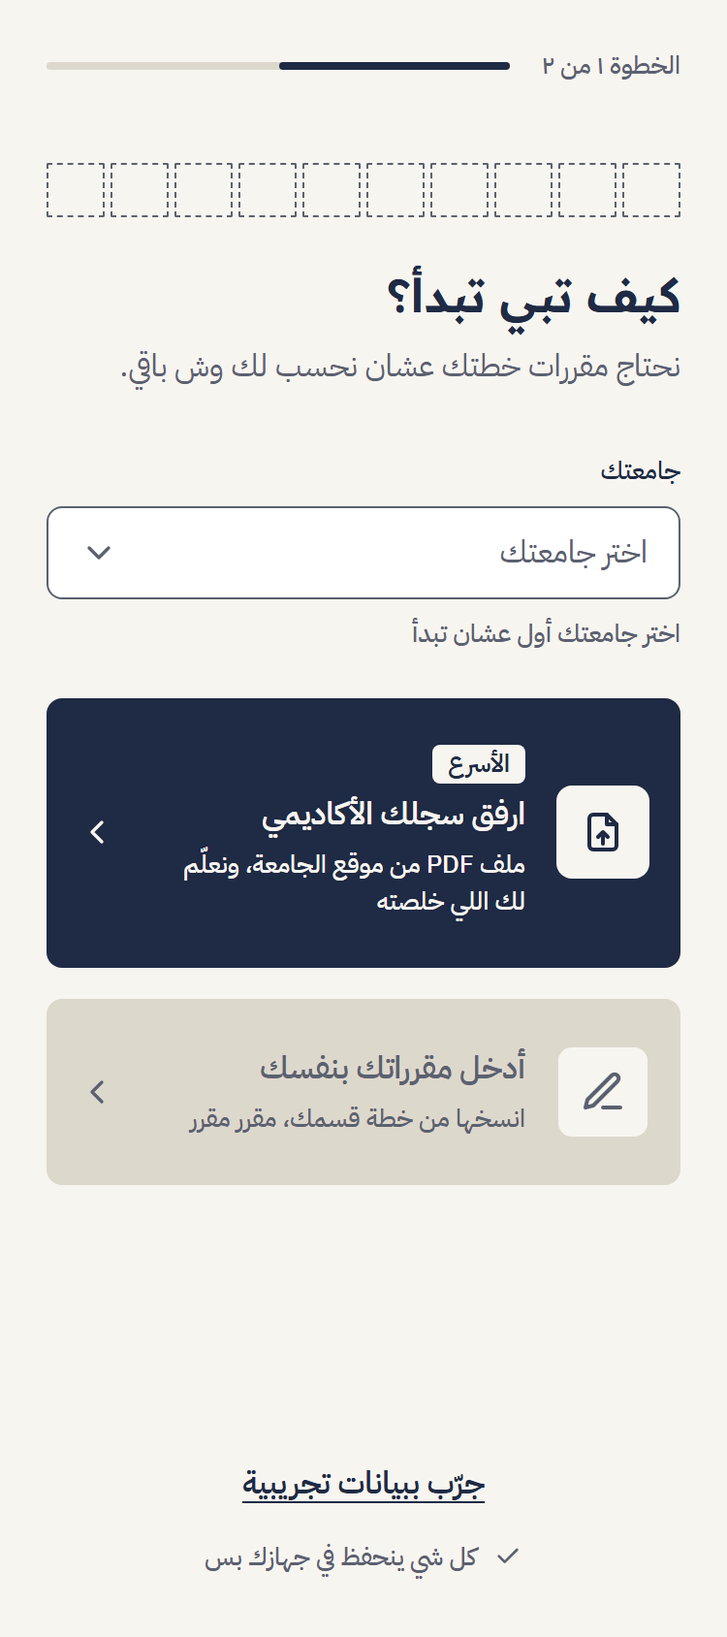
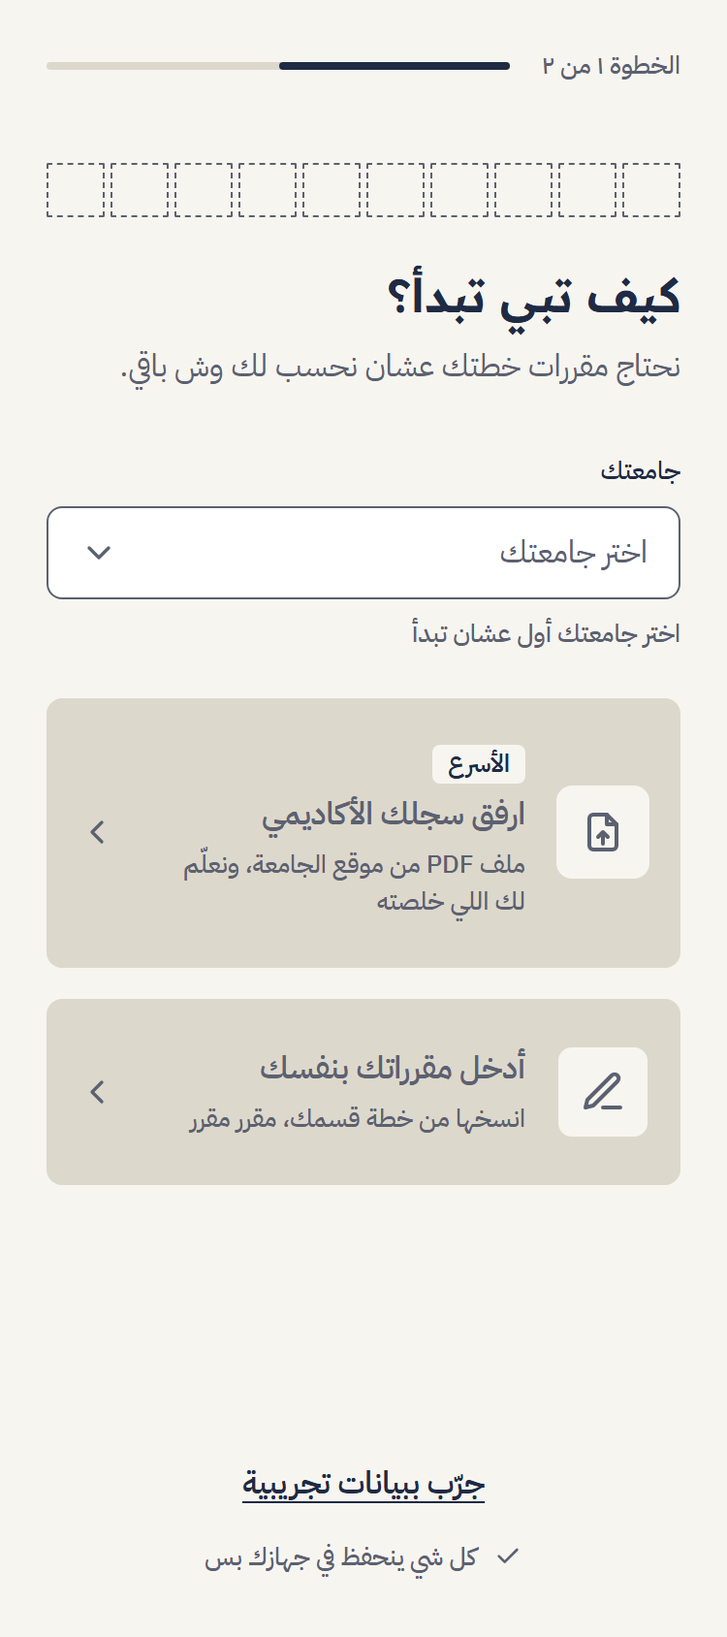
Transcript: empty plan adds courses directly; upload needs a university
- Empty plan: every passed course goes in at once as completed (source: transcript),
  no partial state; the list shows «أضفنا {n} مقرر خلصتها من سجلك…» and
  «+ أضف مقرر» becomes the primary next step (HANDOFF rules 17a-17b)
- Screen 3: plan made only of completed transcript courses says
  «أضف المقررات اللي باقية عليك عشان نحسب لك» with a button to screen 1,
  never «خلصت خطتك كلها»
- Partial state kept only when the plan already had courses
- Upload card disabled until a university is chosen (rule 16d)
- Checks cover the new states and the plan-had-courses cases; screenshots updated

Changed region(s): [[0.0613, 0.4005, 0.9507, 0.6161], [0.552, 0.154, 0.5827, 0.1848]]

diff --git a/web/scripts/checks/transcript-ui.js b/web/scripts/checks/transcript-ui.js
@@ -2,7 +2,9 @@
 // Run from the repo root with the dev server running; pick the file with ?fixture=:
 //   SHOT_LOG=1 SHOT_JS="$(cat web/scripts/checks/transcript-ui.js)" node web/scripts/shot.mjs "http://localhost:5173/?fixture=transcript-ar-en.pdf#/input" /tmp/tr 390 844 0
 // fixture: transcript-ar-en.pdf | not-transcript.pdf | scan.pdf | not-a-pdf.txt
-// Add &stop=card to stop at the card (for screenshots) instead of finishing the import.
+// Add &stop=card to stop at the card (for screenshots) instead of going on to screen 3.
+// Add &plan=sample to load the sample plan first (the plan already has courses: done / partial states;
+// with ?upload=partial the dev-only 3 extra courses make the partial card).
 const waitFor = async (test, what, ms = 20000) => {
   for (const end = Date.now() + ms; Date.now() < end; await new Promise((r) => setTimeout(r, 100))) {
     const v = test(); if (v) return v;
@@ -16,8 +18,20 @@ const params = new URLSearchParams(location.search);
 const name = params.get('fixture');
 const pdfLoaded = () => performance.getEntriesByType('resource').some((e) => !e.name.includes('/fixtures/') && /pdfjs-dist|pdf\.worker|\/pdf-\w+\.js/.test(e.name));
 
-await waitFor(() => [...document.querySelectorAll('button')].find((b) => b.textContent.includes('ارفق سجلك')), 'start screen with upload card');
+const uploadCard = await waitFor(() => [...document.querySelectorAll('button')].find((b) => b.textContent.includes('ارفق سجلك')), 'start screen with upload card');
 check(!pdfLoaded(), 'pdf.js not downloaded before a file is picked');
+// Decision 34 + rule 16d: no university yet, so the upload card is disabled like the manual card.
+check(uploadCard.disabled && uploadCard.getAttribute('aria-describedby') === 'university-hint', 'upload card disabled until a university is chosen');
+const select = document.querySelector('select');
+Object.getOwnPropertyDescriptor(HTMLSelectElement.prototype, 'value').set.call(select, select.options[1].value);
+select.dispatchEvent(new Event('change', { bubbles: true }));
+await waitFor(() => !uploadCard.disabled, 'upload card enabled after choosing a university');
+check(true, 'upload card enabled after choosing a university');
+const withSample = params.get('plan') === 'sample';
+if (withSample) {
+  [...document.querySelectorAll('button')].find((b) => b.textContent.includes('جرّب ببيانات')).click();
+  await waitFor(() => document.querySelector('.list-courses li'), 'sample list');
+}
 
 const blob = await (await fetch(`/scripts/fixtures/${name}`)).blob();
 const file = new File([blob], name, { type: name.endsWith('.pdf') ? 'application/pdf' : 'text/plain' });
@@ -28,27 +42,42 @@ dt.items.add(file);
 input.files = dt.files;
 input.dispatchEvent(new Event('change', { bubbles: true }));
 const t0 = performance.now();
-const card = await waitFor(() => document.querySelector('.upload--failed, .upload--done'), 'card finished');
+const card = await waitFor(() => document.querySelector('.upload--failed, .upload--done, .upload-line'), 'card finished');
 log.push(`INFO read in ${Math.round(performance.now() - t0)} ms; pdf.js downloaded: ${pdfLoaded()}`);
 log.push('INFO card: ' + plain(card.innerText).replace(/\n/g, ' / '));
 
-if (name === 'transcript-ar-en.pdf') {
-  const codes = [...card.querySelectorAll('.course-row__code')].map((e) => plain(e.textContent));
-  check(plain(card.querySelector('.upload__title').textContent) === 'لقينا ٢٨ مقرر خلصتها', 'title «لقينا ٢٨ مقرر خلصتها»');
-  check(codes.length === 28, `28 rows listed (got ${codes.length})`);
-  check(!codes.includes('CS 210') && !codes.includes('CS 250'), 'CS 210 (F) and CS 250 (W) not listed');
+const saved = () => JSON.parse(localStorage.getItem('arshadni') ?? 'null')?.studyPlan?.courses ?? [];
+if (name === 'transcript-ar-en.pdf' && !withSample) {
+  // Empty plan (rule 17a): no partial card; all passed courses go in, completed, and the list asks for the rest.
+  check(!document.querySelector('.upload--done'), 'no partial card on an empty plan');
+  check(plain(card.textContent) === 'أضفنا ٢٨ مقرر خلصتها من سجلك. الحين أضف المقررات اللي باقية عليك من خطة قسمك', 'message: ' + plain(card.textContent));
+  const footer = [...document.querySelectorAll('.footer button, footer button')];
+  check(footer[0]?.classList.contains('btn-primary') && plain(footer[0].textContent) === 'أضف مقرر', '«+ أضف مقرر» is the primary (next) step');
+  const s28 = saved();
+  check(s28.length === 28 && s28.every((c) => c.completed && c.source === 'transcript'), `saved: 28 courses, all completed, from the transcript (got ${s28.length})`);
+  check(!s28.some((c) => ['CS 210', 'CS 250'].includes(c.code)), 'no CS 210 (F) / CS 250 (W)');
   if (params.get('stop') !== 'card') {
-    [...card.querySelectorAll('button')].find((b) => b.textContent.includes('أضف'))?.click();
-    await waitFor(() => document.querySelector('.upload-line'), '«سجلك مرفق» line');
-    log.push('INFO line: ' + plain(document.querySelector('.upload-line').innerText));
-    location.hash = '#/done';
-    await waitFor(() => document.querySelector('input[type=checkbox]'), 'screen 2');
-    const boxes = [...document.querySelectorAll('input[type=checkbox]')];
-    const saved = JSON.parse(localStorage.getItem('arshadni') ?? 'null')?.studyPlan?.courses ?? [];
-    check(saved.length === 28 && saved.every((c) => c.completed), `saved plan: 28 courses, all completed (got ${saved.length}, ${saved.filter((c) => c.completed).length} completed)`);
-    check(!saved.some((c) => ['CS 210', 'CS 250'].includes(c.code)), 'saved plan has no CS 210 / CS 250');
-    log.push(`INFO screen 2: ${boxes.filter((b) => b.checked).length} of ${boxes.length} visible boxes ticked`);
+    location.hash = '#/remaining';
+    await waitFor(() => document.querySelector('.remaining-message'), 'screen 3');
+    const h = plain(document.querySelector('.remaining-message h2').textContent);
+    check(h === 'أضف المقررات اللي باقية عليك عشان نحسب لك', 'screen 3: ' + h);
+    check(!plain(document.body.textContent).includes('خلصت خطتك كلها'), 'screen 3 does not say «خلصت خطتك كلها»');
+    const btn = document.querySelector('.btn-primary');
+    log.push('INFO screen 3 button: ' + plain(btn.textContent));
+    btn.click();
+    await waitFor(() => location.hash === '#/input', 'back on screen 1');
+    check(true, 'button goes to screen 1');
   }
+} else if (name === 'transcript-ar-en.pdf') {
+  // The plan already had courses (the sample): matched courses get ticked; partial only if some are not in the plan.
+  const partial = new URLSearchParams(location.search).get('upload') === 'partial';
+  if (partial) {
+    check(card.classList.contains('upload--done') && card.querySelectorAll('.course-row').length === 3, 'partial card with the 3 courses not in the plan');
+  } else {
+    check(card.classList.contains('upload-line') && plain(card.textContent).includes('لقينا ٢٨ مقرر خلصتها'), 'all in the plan: «سجلك مرفق، لقينا ٢٨ مقرر خلصتها» line');
+  }
+  const s42 = saved();
+  check(s42.length === 42 && !s42.some((c) => c.source), `plan unchanged: 42 courses, none marked from the transcript (got ${s42.length})`);
 } else {
   const want = {
     'not-transcript.pdf': 'هذا الملف ما يبان إنه سجل أكاديمي. نزّل السجل من بوابة جامعتك',

diff --git a/web/src/features/input/InputScreen.jsx b/web/src/features/input/InputScreen.jsx
@@ -21,13 +21,16 @@ import { FEATURE_TRANSCRIPT } from '../../lib/features.js';
 import { devState, devUpload } from '../../lib/devState.js';
 import { t, tn } from '../../lib/strings.js';
 import { OTHER_UNIVERSITY, UNIVERSITIES } from '../../lib/universities.js';
-import UploadCard, { UploadSummary } from './UploadCard.jsx';
+import UploadCard, { UploadAdded, UploadSummary } from './UploadCard.jsx';
 import AddCourseSheet from './AddCourseSheet.jsx';
 import './input.css';
 
 const SEARCH_THRESHOLD = 20; // decision 7 (HANDOFF rule 12)
 const TOAST_MS = 5000;
 const GHOST_TICKS = 10;
+
+// A course read from the transcript: completed, and marked so screen 3 knows where it came from (rule 17b).
+const fromTranscript = (c) => ({ ...makeCourse(c), completed: true, source: 'transcript' });
 
 export default function InputScreen() {
   const {
@@ -97,7 +100,9 @@ export default function InputScreen() {
     loadSample();
   }
 
+  // The university comes first for both ways in (decision 34): no file picker without one.
   function chooseFile() {
+    if (!university) return;
     fileRef.current?.click();
   }
 
@@ -106,6 +111,15 @@ export default function InputScreen() {
     const result = await readTranscript(file, courses, import.meta.env.DEV ? devUpload() : null);
     if (result.status === 'failed') {
       setUpload({ status: 'failed', fileName: file.name, result: null, reason: result.reason });
+      return;
+    }
+    // Empty plan (rule 17a): nothing to match against, so every passed course goes straight in,
+    // completed, and the list screen asks for the courses that are still left. No partial state.
+    if (courses.length === 0) {
+      // With nothing in the plan, every found course is "unmatched" and carries its name.
+      addCourses(result.unmatchedCourses.map(fromTranscript));
+      setTranscript({ found: result.foundCodes.length, added: result.unmatchedCourses.length });
+      setUpload({ status: 'idle', fileName: '', result: null });
       return;
     }
     markCompleted(result.matchedCodes);
@@ -123,7 +137,7 @@ export default function InputScreen() {
   }
 
   function addUnmatched() {
-    const added = upload.result.unmatchedCourses.map((c) => ({ ...makeCourse(c), completed: true }));
+    const added = upload.result.unmatchedCourses.map(fromTranscript);
     addCourses(added);
     finishImport(upload.result);
   }
@@ -144,6 +158,8 @@ export default function InputScreen() {
   }
 
   const reading = upload.status === 'reading';
+  // Only courses that came from the transcript so far: «+ أضف مقرر» is the next step, so it leads.
+  const onlyTranscript = !loading && courses.length > 0 && courses.every((c) => c.source === 'transcript');
   const cardOpen = ['reading', 'failed', 'partial'].includes(upload.status);
   const isStart = !loading && courses.length === 0;
   const showSearch = courses.length > SEARCH_THRESHOLD;
@@ -213,6 +229,7 @@ export default function InputScreen() {
             <ChoiceCard
               variant="filled" icon={<FileUploadIcon />} tag={t('input.start.fastest')}
               title={t('input.upload')} sub={t('input.upload.sub')} onClick={chooseFile}
+              disabled={!university} aria-describedby={university ? undefined : 'university-hint'}
             />
           ))}
           {/* With the transcript off, manual entry is the only way in, so it becomes the filled card (no «الأسرع»). */}
@@ -258,7 +275,10 @@ export default function InputScreen() {
           <UploadCard upload={upload} onChooseFile={chooseFile} onAddUnmatched={addUnmatched} onIgnoreUnmatched={ignoreUnmatched} />
         </div>
       )}
-      {FEATURE_TRANSCRIPT && !cardOpen && transcript && (
+      {FEATURE_TRANSCRIPT && !cardOpen && transcript?.added && onlyTranscript && (
+        <div className="list-upload"><UploadAdded added={transcript.added} /></div>
+      )}
+      {FEATURE_TRANSCRIPT && !cardOpen && transcript && !(transcript.added && onlyTranscript) && (
         <div className="list-upload"><UploadSummary found={transcript.found} onChooseFile={chooseFile} /></div>
       )}
 
@@ -304,8 +324,17 @@ export default function InputScreen() {
       </section>
 
       <Footer>
-        <SecondaryButton ref={addBtnRef} icon={<PlusIcon />} disabled={loading} onClick={openSheet}>{t('input.addOne')}</SecondaryButton>
-        <PrimaryButton disabled={loading || reading} onClick={() => navigate('/done')}>{t('input.next')}</PrimaryButton>
+        {onlyTranscript ? (
+          <>
+            <PrimaryButton ref={addBtnRef} icon={<PlusIcon />} onClick={openSheet}>{t('input.addOne')}</PrimaryButton>
+            <SecondaryButton disabled={reading} onClick={() => navigate('/done')}>{t('input.next')}</SecondaryButton>
+          </>
+        ) : (
+          <>
+            <SecondaryButton ref={addBtnRef} icon={<PlusIcon />} disabled={loading} onClick={openSheet}>{t('input.addOne')}</SecondaryButton>
+            <PrimaryButton disabled={loading || reading} onClick={() => navigate('/done')}>{t('input.next')}</PrimaryButton>
+          </>
+        )}
       </Footer>
 
     </>

diff --git a/web/src/features/remaining/RemainingScreen.jsx b/web/src/features/remaining/RemainingScreen.jsx
@@ -45,6 +45,9 @@ export default function RemainingScreen() {
 
   const noCourses = !loading && summary.total === 0;
   const allDone = !loading && !noCourses && summary.remaining === 0;
+  // Rule 17b: every course is completed AND came from the transcript, so the plan is only half entered.
+  // Never say «خلصت خطتك كلها» then: ask for the courses still left instead.
+  const onlyTranscript = allDone && courses.every((c) => c.source === 'transcript');
   const ticksLabel = t('remaining.ticks.label', { done: summary.completed, total: summary.total });
   const cycleKeys = new Set((cycle ?? []).map(codeKey));
   const cycleCourses = courses.filter((c) => cycleKeys.has(codeKey(c.code)));
@@ -117,10 +120,16 @@ export default function RemainingScreen() {
           </div>
         )}
 
-        {allDone && (
+        {allDone && !onlyTranscript && (
           <div className="remaining-message">
             <h2 className="section-heading">{t('remaining.empty.title')}</h2>
             <p className="subtitle">{t('remaining.empty.body')}</p>
+          </div>
+        )}
+
+        {onlyTranscript && (
+          <div className="remaining-message">
+            <h2 className="section-heading">{t('remaining.transcriptOnly.title')}</h2>
           </div>
         )}
 
@@ -157,6 +166,8 @@ export default function RemainingScreen() {
         )}
         {noCourses ? (
           <PrimaryButton onClick={() => navigate('/input')}>{t('done.empty.button')}</PrimaryButton>
+        ) : onlyTranscript ? (
+          <PrimaryButton onClick={() => navigate('/input')}>{t('remaining.transcriptOnly.button')}</PrimaryButton>
         ) : allDone ? (
           // Rule 11: no plan button when nothing remains.
           <PrimaryButton onClick={() => navigate('/input')}>{t('remaining.empty.button')}</PrimaryButton>

diff --git a/web/src/lib/strings.js b/web/src/lib/strings.js
@@ -30,6 +30,7 @@ const STRINGS = {
   'input.list.count': 'أضفت {n|course}، الأحدث فوق',
   'input.upload.attached': 'سجلك مرفق، لقينا {n|course} خلصتها',
   'input.upload.changeShort': 'غيّر',
+  'input.upload.added': 'أضفنا {n|course} خلصتها من سجلك. الحين أضف المقررات اللي باقية عليك من خطة قسمك',
   'input.addOne': 'أضف مقرر',
   'input.sheet.title': 'أضف مقرر',
   'input.sheet.close': 'سكّر',
@@ -146,6 +147,8 @@ const STRINGS = {
   'remaining.empty.title': 'حسب اللي أدخلته، خلصت خطتك كلها',
   'remaining.empty.body': 'قبل ما تقدّم على التخرج، تأكد من القسم إن خطتك ما ينقصها مقرر وإن ساعاتك مكتملة.',
   'remaining.empty.button': 'راجع مقرراتي',
+  'remaining.transcriptOnly.title': 'أضف المقررات اللي باقية عليك عشان نحسب لك',
+  'remaining.transcriptOnly.button': 'أضف المقررات الباقية',
   'remaining.loading': 'نحسب اللي باقي لك…',
   'remaining.error.title': 'ما نقدر نرتّب خطتك',
   'remaining.error.body': '{a} يحتاج {b}، و {b} يحتاج {a}. واحد منهم مكتوب غلط، صحّحه من مقرراتك.',

diff --git a/web/src/features/input/UploadCard.jsx b/web/src/features/input/UploadCard.jsx
@@ -62,6 +62,17 @@ export default function UploadCard({ upload, onChooseFile, onAddUnmatched, onIgn
   return null;
 }
 
+// After a transcript on an EMPTY plan (HANDOFF rule 17a): the courses were added straight away,
+// so this says how many and what to do next (add the courses that are still left).
+export function UploadAdded({ added }) {
+  return (
+    <div className="upload-line upload-line--note" role="status">
+      <CheckIcon size={20} />
+      <span className="upload-line__text">{t('input.upload.added', { n: added })}</span>
+    </div>
+  );
+}
+
 // The list state's one-line summary after an import: «سجلك مرفق، لقينا ٢٨ مقرر خلصتها · غيّر».
 export function UploadSummary({ found, onChooseFile }) {
   return (

diff --git a/web/src/features/input/input.css b/web/src/features/input/input.css
@@ -35,6 +35,9 @@
   background: var(--color-surface); border: var(--border-thin) solid var(--color-rule); border-radius: var(--radius-lg);
 }
 .upload-line__text { flex: 1; font-size: var(--text-caption); font-weight: var(--weight-medium); }
+/* Two sentences: room above and below, icon on the first line. */
+.upload-line--note { padding-block: var(--space-1); align-items: flex-start; }
+.upload-line--note svg { flex-shrink: 0; }
 
 /* ---------- Add sheet form ---------- */
 .sheet-form { display: flex; flex-direction: column; gap: var(--space-2); }

diff --git a/HANDOFF.md b/HANDOFF.md
@@ -28,7 +28,7 @@ States for each screen: `StatesInput`, `StatesDone`, `StatesRemaining`, `StatesP
 >
 > ⏸ **Paused for the demo (decision 33):** the transcript upload is hidden behind `FEATURE_TRANSCRIPT = false` in `web/src/lib/features.js`. Its code and states stay; turn the flag back on after the camp.
 >
-> 📄 **Real reading (decision 36, branch `feature/real-transcript`):** the PDF is read on the device with pdf.js and the flag is on. Known gap: the upload card is only on the start screen (empty plan), so a real transcript there always gives the partial state («٠ منها في خطتك») and «أضف الـ {n} لخطتك» adds the courses as completed.
+> 📄 **Real reading (decision 36, branch `feature/real-transcript`):** the PDF is read on the device with pdf.js and the flag is on. On an empty plan the passed courses are added straight away (rule 17a); the partial state is only for a plan that already has courses.
 
 ## 3. Happy path (3 navigation taps + data entry)
 
@@ -128,7 +128,10 @@ Storage: device only (browser local storage), no account, no server. Key name an
 16a. **Limits:** not a PDF (type or `.pdf` name) → «input.upload.error.notPdf»; over 10 MB → «input.upload.error.tooBig»; pdf.js can't open it (damaged, password) → «input.upload.error.generic»; reading takes over 15 seconds → stop and «input.upload.error.timeout».
 16b. **Is it a transcript?** Only if the text has at least one marker («السجل الأكاديمي», «Academic Record», «Transcript», «GPA», «المعدل») AND at least 3 course lines. Otherwise «input.upload.error.notTranscript».
 16c. **Course line:** a line with a course code (2–5 Latin or Arabic letters, optional space, 3–4 digits: «CS 210», «CS210», «عال 101») AND a grade on the same line. Not university-specific. Words like «Fall 2024», «Total 120», «الفصل 2024» are not codes.
-17. Transcript courses are matched to plan courses with the same normalization as rule 2. Matched → `completed: true`. Unmatched → listed for the user to add or ignore; never added silently.
+16d. The upload card is disabled until a university is chosen, like «أدخل مقرراتك بنفسك» (decision 34).
+17. Transcript courses are matched to plan courses with the same normalization as rule 2. Matched → `completed: true`. Unmatched → listed for the user to add or ignore; never added silently. This partial state is shown only when the plan already had courses.
+17a. **Empty plan** (start screen): every passed course is added at once as completed, with no partial state. The list screen then shows «input.upload.added», and «+ أضف مقرر» is the primary button (next step) while every course in the plan came from the transcript.
+17b. Courses added from a transcript are saved with `source: "transcript"`. On screen 3, if every course is completed AND all came from a transcript, never say «خلصت خطتك كلها»: show «remaining.transcriptOnly.title» and the button «remaining.transcriptOnly.button» (to screen 1).
 18. Only passed courses in the transcript count as completed (decision 36). Passed: A+ A B+ B C+ C D+ D P TR, أ+ أ ب+ ب ج+ ج د+ د ناجح معادل. Not passed: F W WF I IP NP, هـ ح منسحب غير مكتمل.
 18a. **Repeats:** a course that appears more than once counts as completed if any attempt passed; the latest passing attempt wins (its name is used).
 18b. **Privacy:** the file is read on the device only (no server, no outside website, no API) and never kept. pdf.js is loaded only after a file is picked.
@@ -199,6 +202,7 @@ Storage: device only (browser local storage), no account, no server. Key name an
 | input.list.count | أضفت {n|course}، الأحدث فوق |
 | input.upload.attached | سجلك مرفق، لقينا {n|course} خلصتها |
 | input.upload.changeShort | غيّر |
+| input.upload.added | أضفنا {n|course} خلصتها من سجلك. الحين أضف المقررات اللي باقية عليك من خطة قسمك |
 | input.addOne | أضف مقرر |
 | input.sheet.title | أضف مقرر |
 | input.sheet.close | سكّر |
@@ -260,6 +264,8 @@ Storage: device only (browser local storage), no account, no server. Key name an
 | remaining.edit | عدّل مقرراتي |
 | remaining.empty.title | حسب اللي أدخلته، خلصت خطتك كلها |
 | remaining.empty.body | قبل ما تقدّم على التخرج، تأكد من القسم إن خطتك ما ينقصها مقرر وإن ساعاتك مكتملة. |
+| remaining.transcriptOnly.title | أضف المقررات اللي باقية عليك عشان نحسب لك |
+| remaining.transcriptOnly.button | أضف المقررات الباقية |
 | remaining.empty.button | راجع مقرراتي |
 | remaining.loading | نحسب اللي باقي لك… |
 | remaining.error.title | ما نقدر نرتّب خطتك |
@@ -366,4 +372,4 @@ Numbers in `{n}` are shown with Arabic-Indic digits. `{code}` stays Latin.
 33. **Transcript paused for the demo.** The transcript upload card and the «سجلك مرفق» line are hidden behind one flag, `FEATURE_TRANSCRIPT = false` in `web/src/lib/features.js` (code kept, comes back after the camp). With it off, the start screen shows only «أدخل مقرراتك بنفسك» as the FILLED choice card, without «الأسرع». Reason: the simulated reading gives a wrong result on an empty plan.
 34. **University required, and first.** The «جامعتك» picker moves to the top of the start screen, under the title, without «(اختياري)». Until a university is chosen, «أدخل مقرراتك بنفسك» is disabled (disabled-button colours: `rule` fill, `pencil` text) with «اختر جامعتك أول عشان تبدأ» under the picker. «جرّب ببيانات تجريبية» works without a choice and sets the first university in the list when none is chosen. The university is saved with the plan and restored on reload. Replaces the "optional" part of decisions 24 and 27.
 35. **Path picker sub-labels** are «متوازن» / «الثقيل أول» / «الخفيف أول» again. Reverses the «متوازن / ثقيل / خفيف» part of decision 30.
-36. **Real transcript reading, on the device** (branch `feature/real-transcript` until "merge"). The PDF is read in the browser with pdf.js (`pdfjs-dist` 6.5.438, legacy build), loaded with a dynamic import only after a file is picked, so the first page stays fast. Nothing leaves the device. A generic parser (rules 16–18b) finds course lines by code + grade; matching to the plan and the 4 card states (reading, error, done, partial) are unchanged (rule 17). Errors get their own texts (§8 `input.upload.error.*`). `FEATURE_TRANSCRIPT = true` on the branch. Replaces decision 11 (simulated reading) and ends the pause of decision 33 on the branch. Test files with fake data: `web/scripts/fixtures/` (rebuild with `make-fixtures.mjs`); checks: `scripts/checks/transcript.mjs`, `transcript-ui.js`, `demo-flow-ui.js`.
+36. **Real transcript reading, on the device** (branch `feature/real-transcript` until "merge"). The PDF is read in the browser with pdf.js (`pdfjs-dist` 6.5.438, legacy build), loaded with a dynamic import only after a file is picked, so the first page stays fast. Nothing leaves the device. A generic parser (rules 16–18b) finds course lines by code + grade; matching to the plan and the 4 card states (reading, error, done, partial) are unchanged (rule 17). Errors get their own texts (§8 `input.upload.error.*`). On an empty plan the courses go straight in (rules 17a–17b), and the upload card needs a university first (rule 16d). `FEATURE_TRANSCRIPT = true` on the branch. Replaces decision 11 (simulated reading) and ends the pause of decision 33 on the branch. Test files with fake data: `web/scripts/fixtures/` (rebuild with `make-fixtures.mjs`); checks: `scripts/checks/transcript.mjs`, `transcript-ui.js`, `demo-flow-ui.js`.
